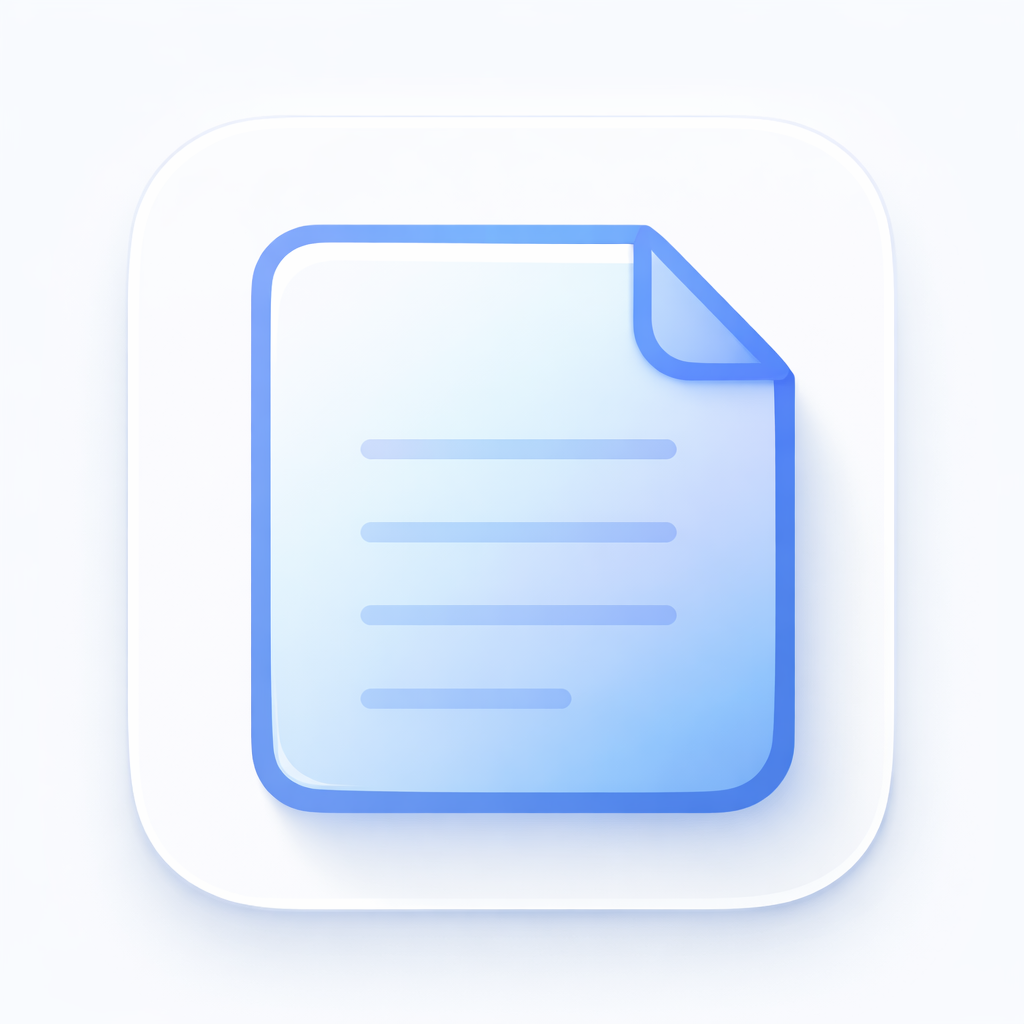
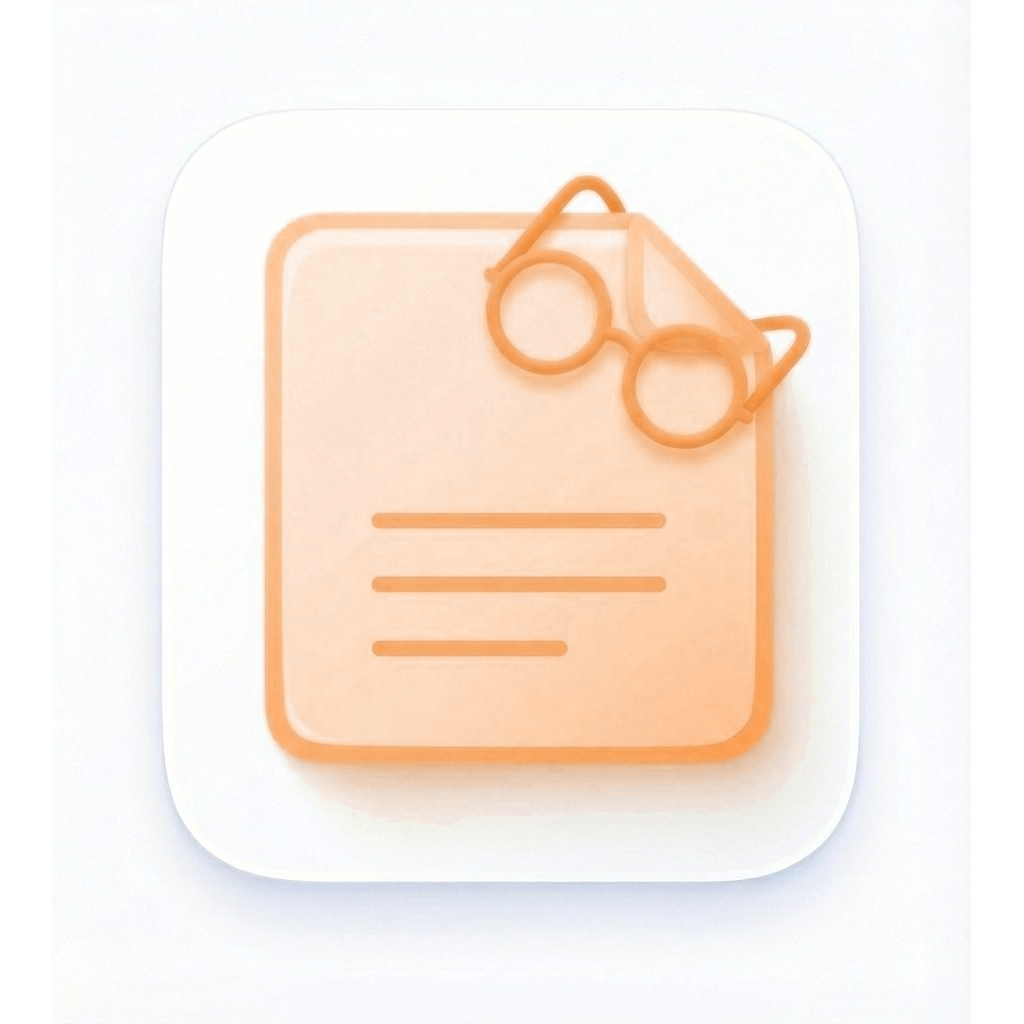
[feat]여러 부분 중 치명적인 부분 수정(정보 노출이런거)

diff --git a/readgye/src/context/AuthContext.tsx b/readgye/src/context/AuthContext.tsx
@@ -2,8 +2,10 @@ import React, { createContext, useCallback, useContext, useEffect, useRef, useSt
 import AsyncStorage from '@react-native-async-storage/async-storage';
 import { Alert, Platform } from 'react-native';
 
-const GOOGLE_WEB_CLIENT_ID = '333280411085-vlut8smanu3gk36s4g3p9n253erjult5.apps.googleusercontent.com';
-export const API_BASE_URL = 'https://back-production-e1e1.up.railway.app';
+const GOOGLE_WEB_CLIENT_ID = process.env.EXPO_PUBLIC_GOOGLE_WEB_CLIENT_ID ?? '';
+export const API_BASE_URL = process.env.EXPO_PUBLIC_API_BASE_URL ?? '';
+const GUEST_EMAIL = process.env.EXPO_PUBLIC_GUEST_EMAIL ?? '';
+const GUEST_PASSWORD = process.env.EXPO_PUBLIC_GUEST_PASSWORD ?? '';
 
 type GoogleSigninModule = {
   GoogleSignin: {
@@ -210,7 +212,9 @@ export function AuthProvider({ children }: { children: React.ReactNode }) {
               prev ? { ...prev, is_admin: profile.is_admin || false } : prev,
             );
           }
-        } catch {}
+        } catch (e) {
+          console.log('관리자 정보 조회 실패 (기능에는 영향 없음):', e);
+        }
 
         console.log('백엔드 로그인 성공, 토큰 저장 완료');
       } else {
@@ -231,9 +235,9 @@ export function AuthProvider({ children }: { children: React.ReactNode }) {
 
         if (storedToken) {
           setToken(storedToken);
-        } else if (parsedUser.email === 'guest@readgye.app') {
+        } else if (parsedUser.email === GUEST_EMAIL) {
           console.log('게스트 토큰 없음 → 백엔드 자동 로그인 시도');
-          await loginToBackend('guest@readgye.app', 'guest1234!', '게스트');
+          await loginToBackend(GUEST_EMAIL, GUEST_PASSWORD, '게스트');
         }
       }
     } catch (e) {
@@ -344,18 +348,16 @@ export function AuthProvider({ children }: { children: React.ReactNode }) {
   };
 
   const signInAsGuest = async () => {
-    const guestEmail = 'guest@readgye.app';
-    const guestPassword = 'guest1234!';
     const guestUser: UserInfo = {
       id: 'guest',
       name: '게스트',
-      email: guestEmail,
+      email: GUEST_EMAIL,
       picture: '',
     };
     setUser(guestUser);
     await AsyncStorage.setItem('user', JSON.stringify(guestUser));
 
-    await loginToBackend(guestEmail, guestPassword, '게스트');
+    await loginToBackend(GUEST_EMAIL, GUEST_PASSWORD, '게스트');
   };
 
   const signOut = async () => {
@@ -364,7 +366,7 @@ export function AuthProvider({ children }: { children: React.ReactNode }) {
         await googleSigninModule.GoogleSignin.signOut();
       }
     } catch (e) {
-      // Google 로그인이 아닌 경우 무시
+      console.log('Google 로그아웃 실패 (이메일/게스트 로그인이었을 수 있음):', e);
     }
     setUser(null);
     setToken(null);

diff --git a/readgye/src/screens/CounselingScreen.tsx b/readgye/src/screens/CounselingScreen.tsx
@@ -266,7 +266,7 @@ export default function CounselingScreen() {
       <View style={styles.aiRow}>
         <View style={styles.avatarWrap}>
           <Image
-            source={require('../../assets/favicon.png')}
+            source={require('../../assets/logo_orange_strong.png')}
             style={styles.avatar}
             resizeMode="cover"
           />
@@ -345,7 +345,7 @@ export default function CounselingScreen() {
     <View style={styles.aiRow}>
       <View style={styles.avatarWrap}>
         <Image
-          source={require('../../assets/favicon.png')}
+          source={require('../../assets/logo_orange_strong.png')}
           style={styles.avatar}
           resizeMode="cover"
         />

diff --git a/readgye/src/screens/HomeScreen.tsx b/readgye/src/screens/HomeScreen.tsx
@@ -258,6 +258,7 @@ export default function HomeScreen() {
       navigation.navigate('Archive', {
         screen: 'ArchiveDetail',
         params: { documentId: item.id, title: item.title },
+        initial: false,
       });
     },
     [navigation]
@@ -273,7 +274,7 @@ export default function HomeScreen() {
         <View style={styles.header}>
           <View style={styles.headerLeft}>
             <Image
-              source={require('../../assets/favicon.png')}
+              source={require('../../assets/logo_orange_strong.png')}
               style={styles.logoImage}
               resizeMode="contain"
             />

diff --git a/readgye/src/screens/LoginScreen.tsx b/readgye/src/screens/LoginScreen.tsx
@@ -77,7 +77,7 @@ export default function LoginScreen({ navigation }: Props) {
           {/* Logo */}
           <View style={styles.logoArea}>
             <Image
-              source={require('../../assets/favicon.png')}
+              source={require('../../assets/logo_orange_strong.png')}
               style={styles.logo}
               resizeMode="contain"
             />

diff --git a/readgye/src/screens/ProfileScreen.tsx b/readgye/src/screens/ProfileScreen.tsx
@@ -64,7 +64,7 @@ export default function ProfileScreen() {
               />
             ) : (
               <Image
-                source={require('../../assets/favicon.png')}
+                source={require('../../assets/logo_orange_strong.png')}
                 style={styles.avatar}
                 resizeMode="cover"
               />

diff --git a/readgye/src/screens/NotificationListScreen.tsx b/readgye/src/screens/NotificationListScreen.tsx
@@ -111,6 +111,7 @@ export default function NotificationListScreen() {
         navigation.navigate('Archive', {
           screen: 'ArchiveDetail',
           params: { documentId: item.document_id, title: '분석 결과' },
+          initial: false,
         });
       }
     },
